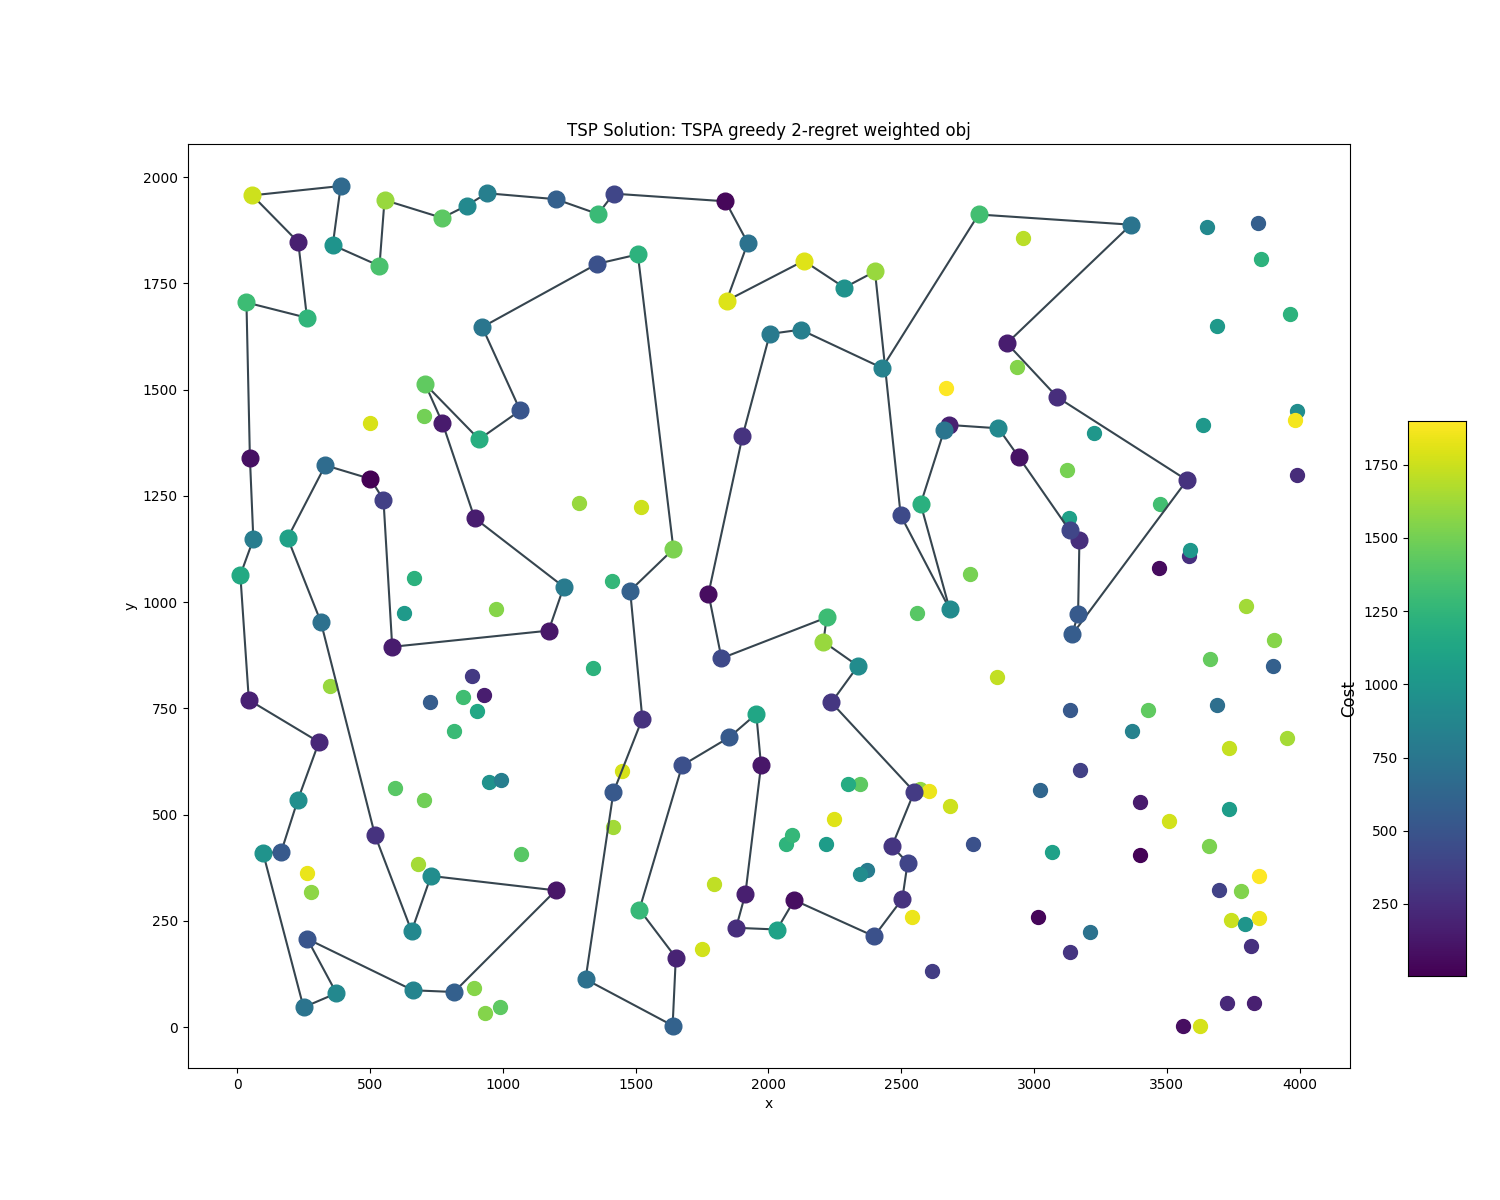
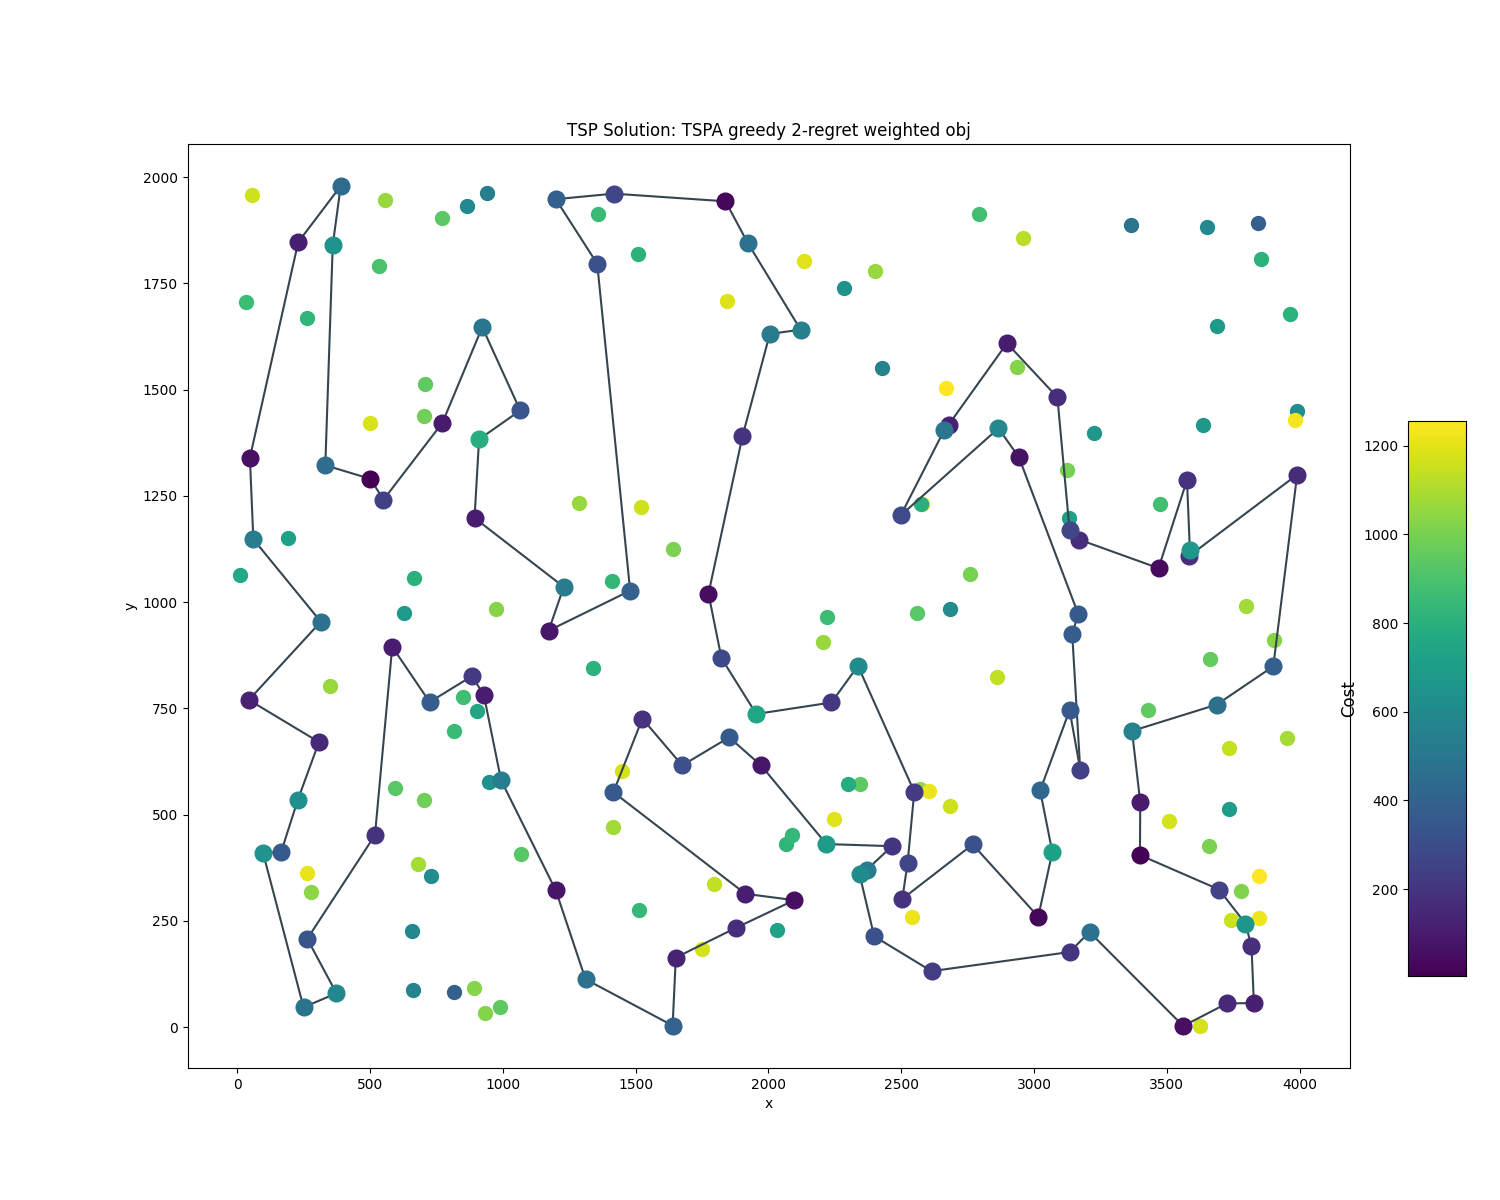
assignment2 - fix greedy_2_regret_weighted_objective.py (flip sign)

diff --git a/assignment2/greedy_2_regret_weighted_objective.py b/assignment2/greedy_2_regret_weighted_objective.py
@@ -37,7 +37,7 @@ def greedy_2_regret_weighted_objective_solve(tsp: TSP, starting_node: int = None
             regret = best_2nd_move_cost - best_1st_move_cost
             best_1st_move_node_insertion_cost, best_1st_move_node_insertion_place =\
                 best_insertion_places[remaining_nodes.index(best_1st_move_node)]
-            weighted_objective = (regret + best_1st_move_node_insertion_cost) / 2
+            weighted_objective = (regret - best_1st_move_node_insertion_cost) / 2  # "-" because then we maximize
             if weighted_objective > highest_weighted_objective[0]:
                 highest_weighted_objective = (weighted_objective, best_1st_move_node,
                                               best_1st_move_node_insertion_place)
